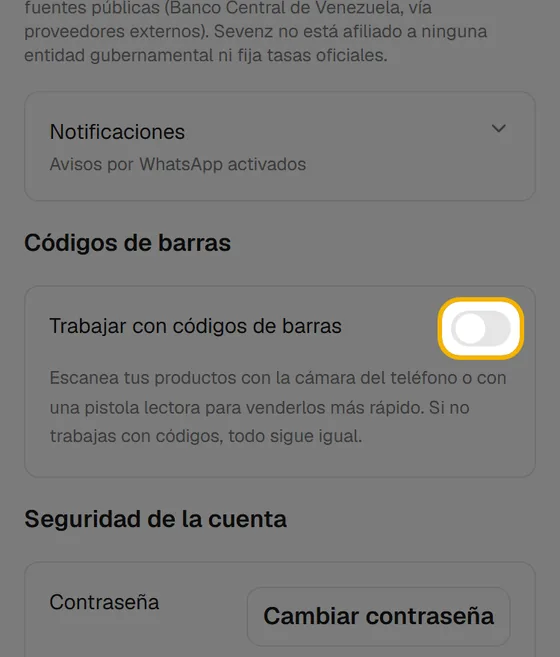
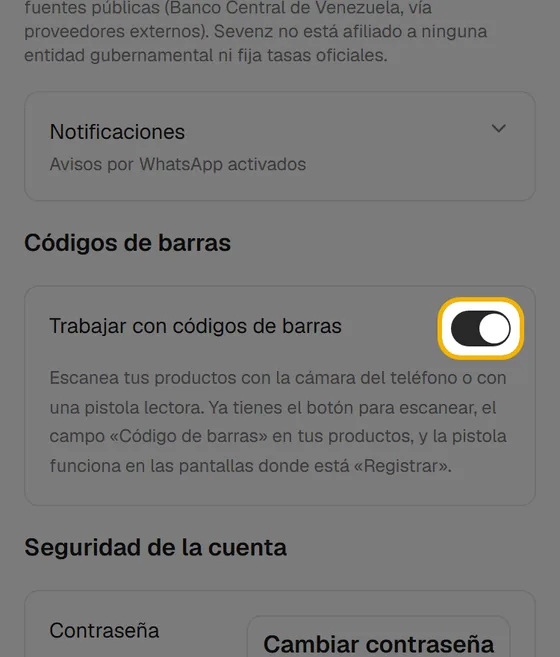
Ayuda v0.13.1: los códigos de barras vienen activados
«Escanear códigos de barras» (paso 1) y «Mi negocio» dicen que el interruptor
viene activado y que se apaga si no se trabaja con códigos, con capturas nuevas.
No se publica hasta que salga la v0.13.1 del dashboard.

diff --git a/lib/soporte.ts b/lib/soporte.ts
@@ -237,8 +237,10 @@ export const TEMAS: Tema[] = [
       "Cómo activar los códigos de barras en Sevenz, poner el código a tus productos, escanear con la cámara del teléfono o con una pistola lectora y vender escaneando.",
     pasos: [
       {
-        texto: "En [[Mi negocio]], activa [[Trabajar con códigos de barras]].",
-        pista: "Viene apagado. Si no trabajas con códigos, déjalo así: la app sigue igual.",
+        // On by default since v0.13.1 (migration 221, owner's request of 2026-11-26); until then it
+        // came off and this step said to turn it on. Picture re-taken with it on.
+        texto: "En [[Mi negocio]], [[Trabajar con códigos de barras]] viene activado.",
+        pista: "Si no trabajas con códigos, apágalo: se van el botón de escanear y el campo del código, y la app sigue como siempre.",
         imagen: "escanear-codigos-de-barras/1",
       },
       {
@@ -1215,7 +1217,8 @@ export const TEMAS: Tema[] = [
       {
         // v0.13.0 (CT-182): the card between Notificaciones and Seguridad. Saved on the switch
         // itself, not with «Guardar cambios». Picture by temas/escaner.mjs.
-        texto: "En [[Códigos de barras]], activa [[Trabajar con códigos de barras]] si vas a escanear tus productos.",
+        // On by default since v0.13.1 (migration 221). Picture re-taken with it on.
+        texto: "En [[Códigos de barras]], [[Trabajar con códigos de barras]] viene activado. Apágalo si no trabajas con códigos.",
         pista: "Se guarda al instante, sin [[Guardar cambios]]. Cómo se usa está en «Escanear códigos de barras».",
         imagen: "mi-negocio/12",
       },
